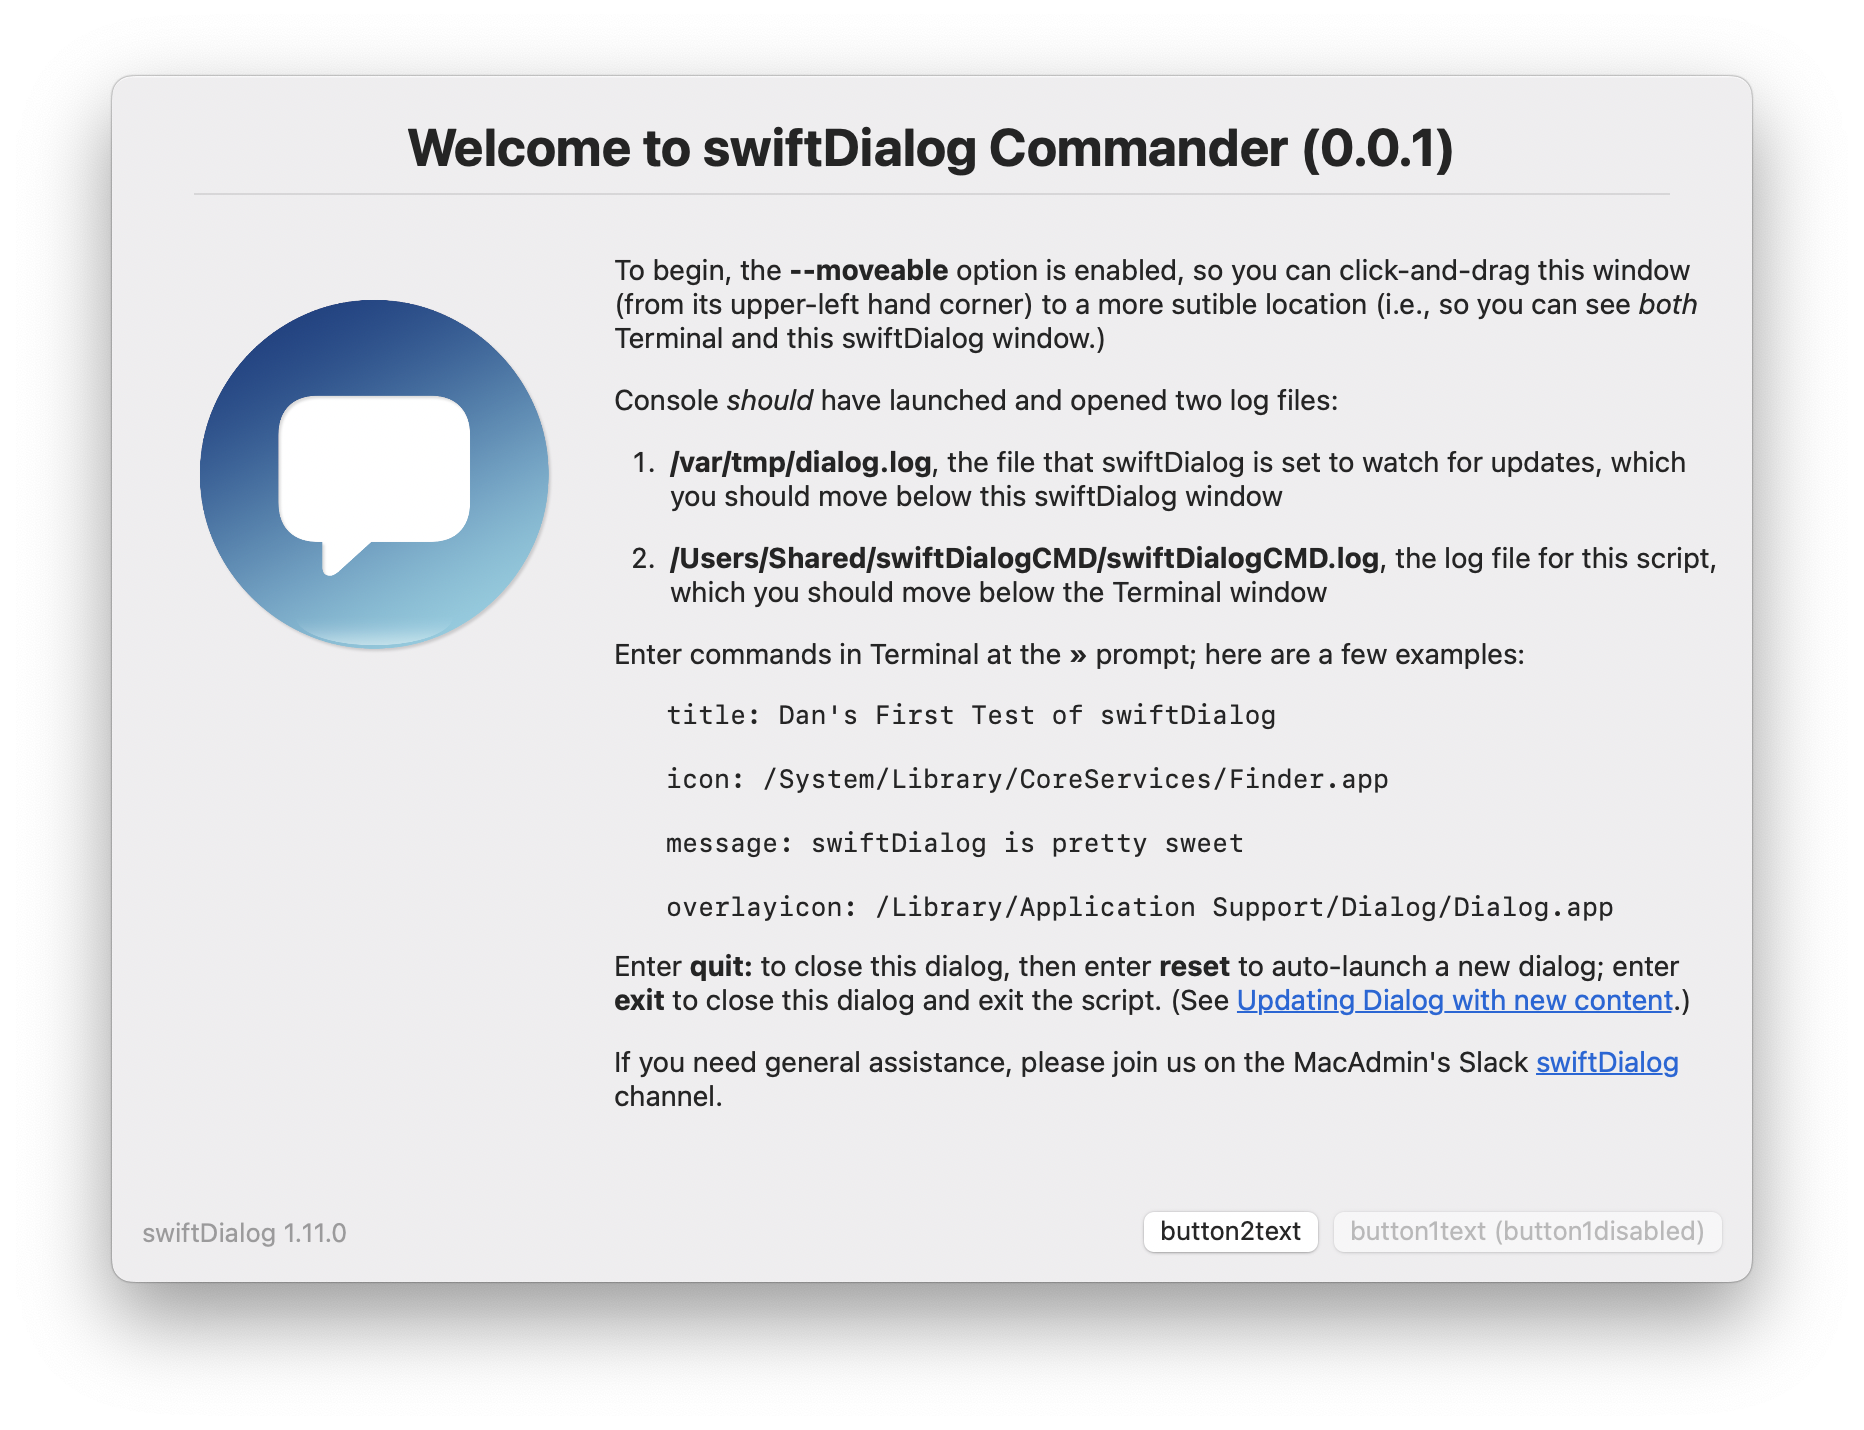
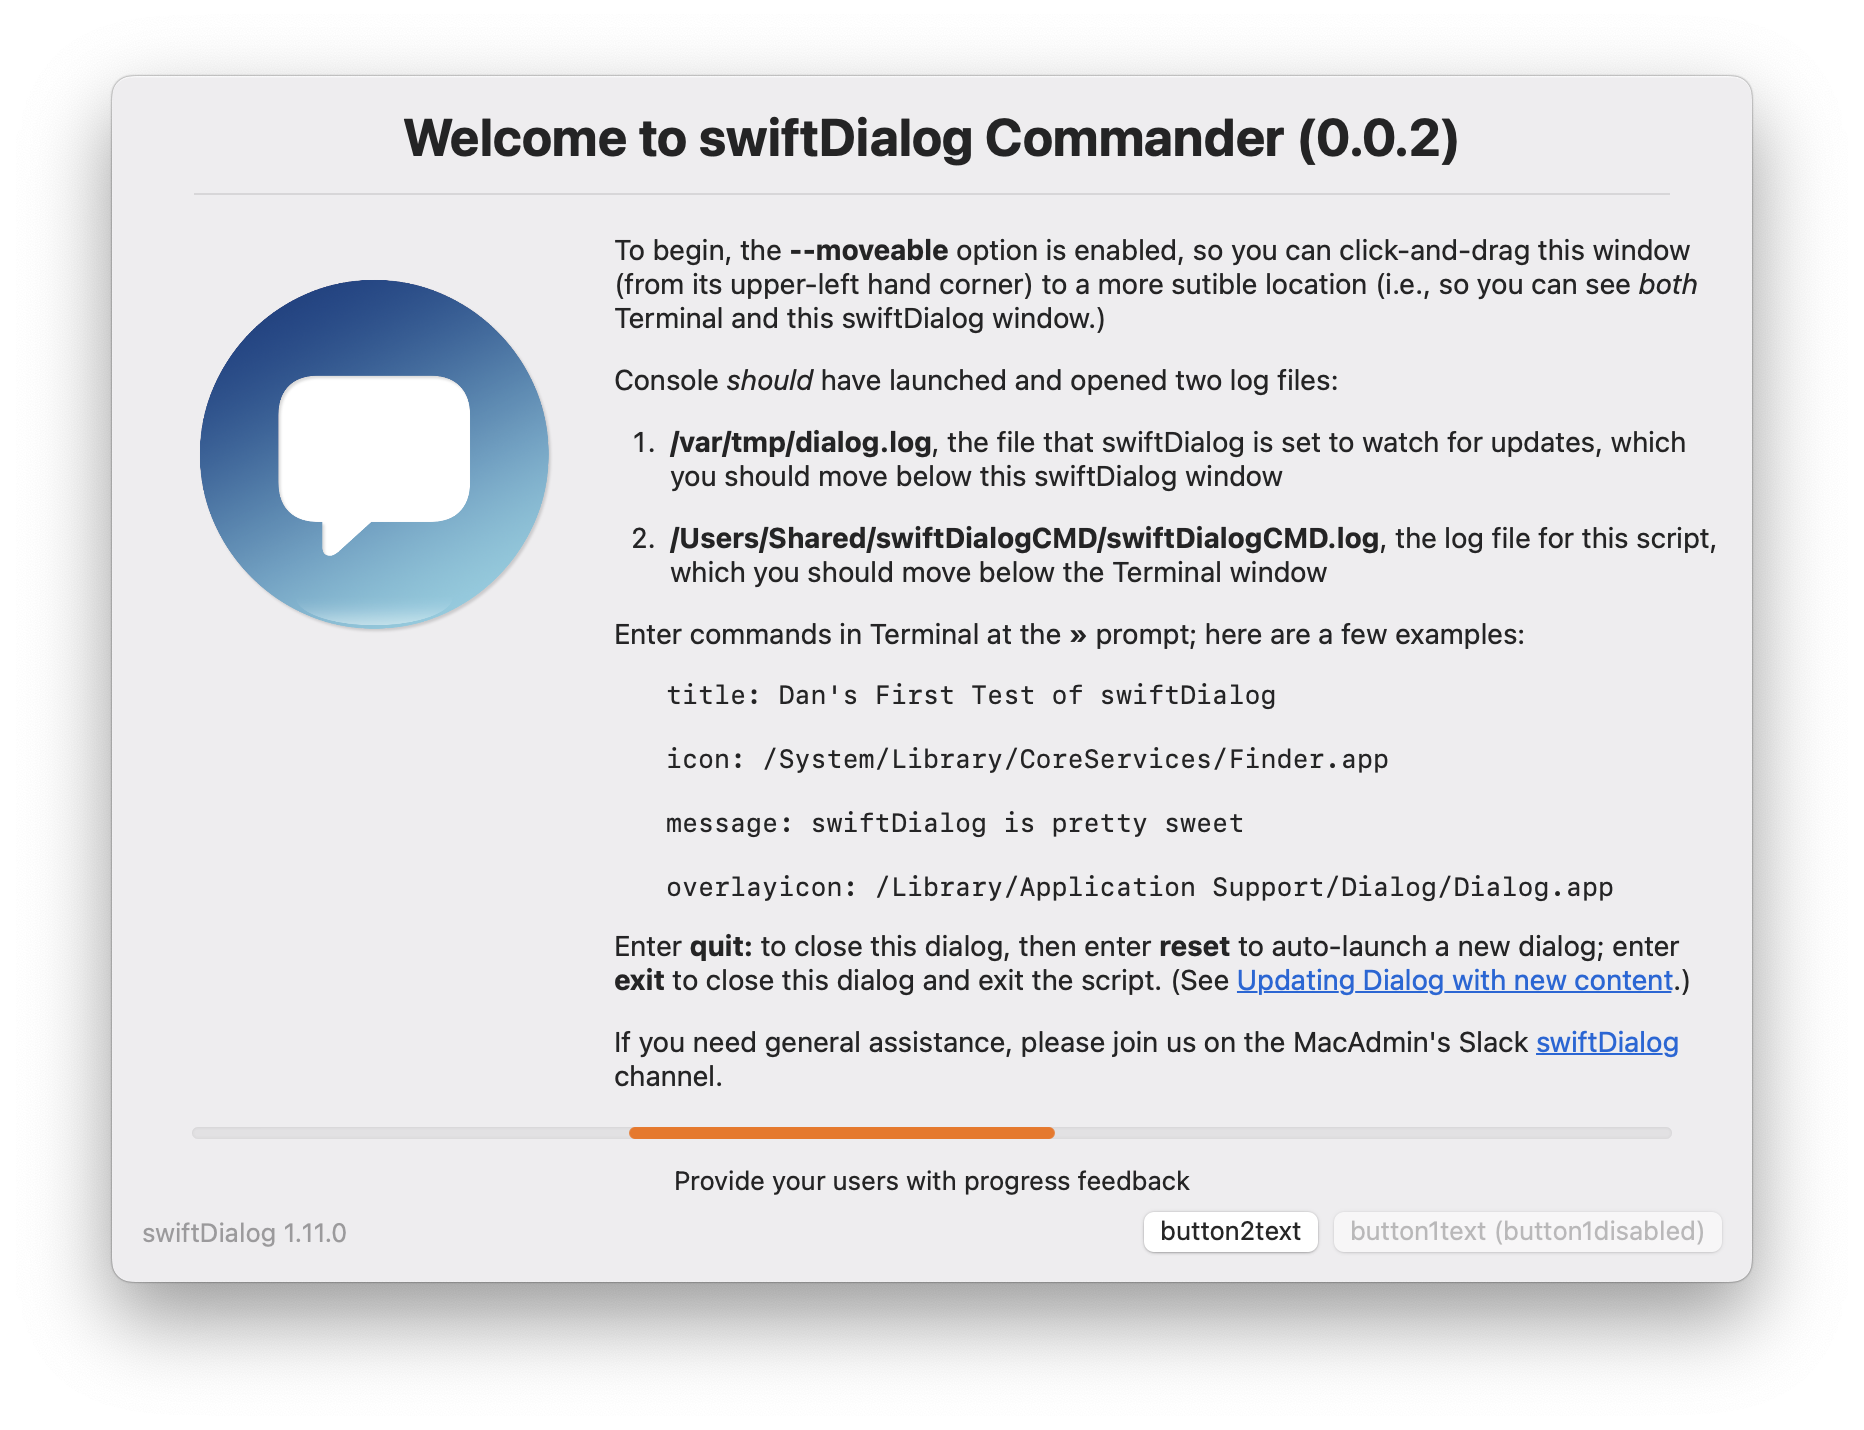
0.0.2

diff --git a/swiftDialog Commander/README.md b/swiftDialog Commander/README.md
@@ -33,10 +33,28 @@ curl -o ~/Downloads/swiftDialogCommander.sh https://raw.githubusercontent.com/da
 ```
 3. Review the built-in help via: `bash ~/Downloads/swiftDialogCommander.sh --help`
 4. Execute various commands via: `bash ~/Downloads/swiftDialogCommander.sh`
-> `title: Title goes here`
+> `title: My First Test of swiftDialog`
 
 > `icon: /System/Library/CoreServices/Finder.app`
 
-> `message: Message goes here`
+> `message: swiftDialog is pretty sweet`
 
 > `overlayicon: /Library/Application Support/Dialog/Dialog.app`
+
+> `list: Item 1, Item 2, Item 3`
+
+> `listitem: title: Item 1, status: success`
+
+> `progresstext: Item 1 installed.`
+
+> `progress: 33`
+
+> `listitem: title: Item 2, status: wait, statustext: Pending`
+
+> `progress: 66`
+
+> `listitem: title: Item 3, status: wait, statustext: Pending`
+
+> `listitem: title: Item 2, status: fail, statustext: Failed`
+
+> `progresstext: Item 2 failed.`
